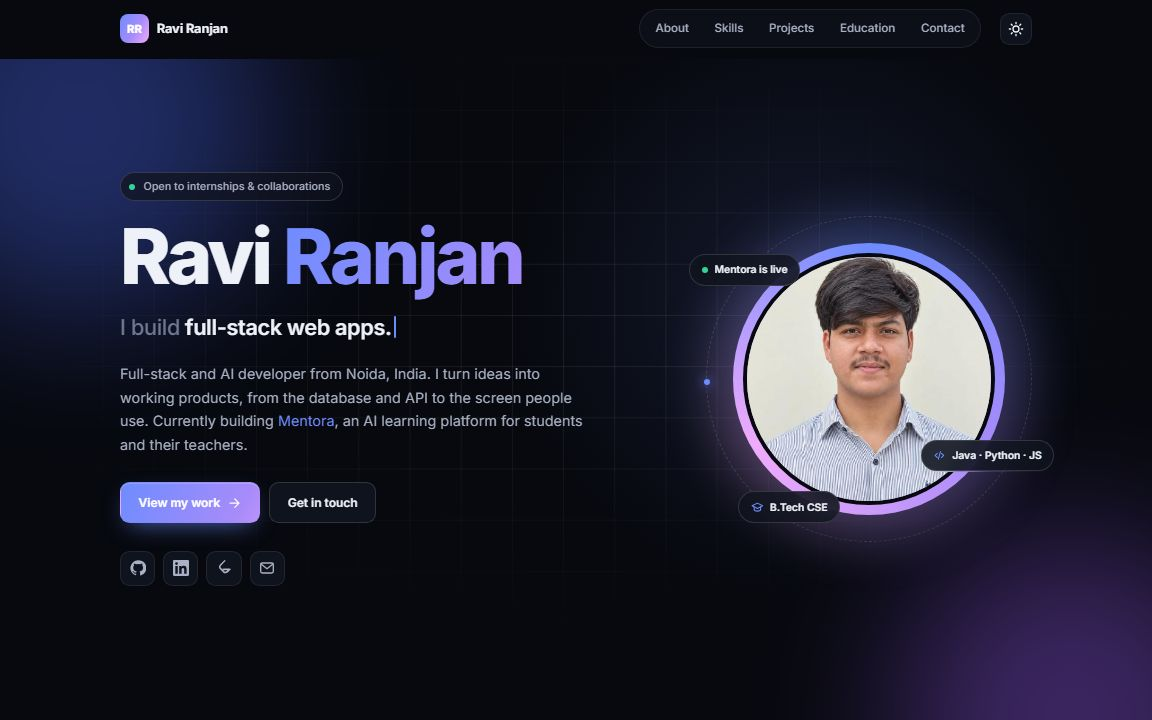
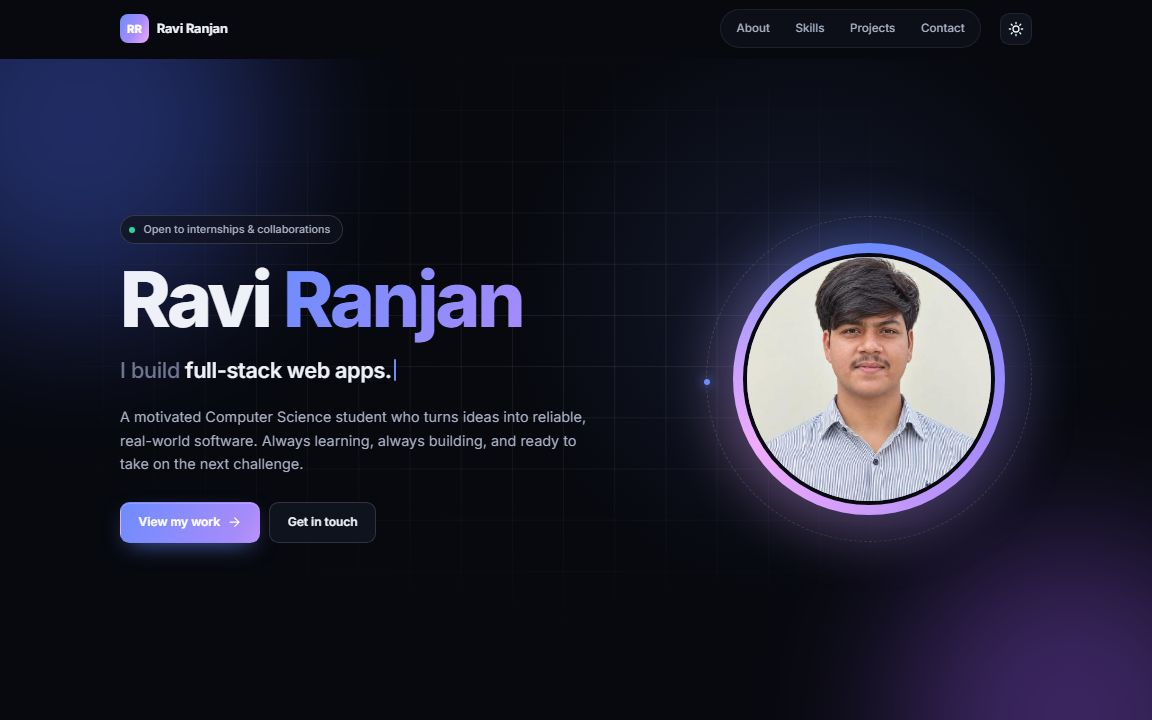
Hero: remove floating chips around the photo; refresh portfolio preview

diff --git a/css/style.css b/css/style.css
@@ -140,12 +140,6 @@ svg.fill { fill: currentColor; stroke: none; }
 @keyframes spin { to { transform: rotate(360deg); } }
 .orbit { position: absolute; inset: -34px; border-radius: 50%; border: 1px dashed var(--line-2); animation: spin 40s linear infinite reverse; }
 .orbit::before { content: ""; position: absolute; top: 50%; left: -4px; width: 8px; height: 8px; border-radius: 50%; background: var(--brand); box-shadow: 0 0 14px var(--brand); }
-.float-chip { position: absolute; display: inline-flex; align-items: center; gap: 8px; padding: 8px 14px; border-radius: 999px; background: color-mix(in srgb, var(--surface) 88%, transparent); backdrop-filter: blur(10px); -webkit-backdrop-filter: blur(10px); border: 1px solid var(--line-2); box-shadow: var(--shadow); font-size: 13px; font-weight: 600; color: var(--text); white-space: nowrap; transform: translateZ(60px); animation: bob 5s ease-in-out infinite; }
-.float-chip svg { width: 16px; height: 16px; color: var(--brand); }
-.chip-a { top: 4%; left: -16%; }
-.chip-b { bottom: 16%; right: -18%; animation-delay: -1.6s; }
-.chip-c { bottom: -3%; left: 2%; animation-delay: -3.2s; }
-@keyframes bob { 50% { translate: 0 -10px; } }
 .dot { width: 8px; height: 8px; border-radius: 50%; background: var(--ok); box-shadow: 0 0 0 0 color-mix(in srgb, var(--ok) 60%, transparent); animation: ping 1.8s infinite; flex: none; }
 @keyframes ping { 70% { box-shadow: 0 0 0 8px transparent; } 100% { box-shadow: 0 0 0 0 transparent; } }
 .scroll-hint { position: absolute; left: 50%; bottom: 28px; translate: -50% 0; display: grid; justify-items: center; gap: 8px; color: var(--muted); font: 500 11px/1 var(--mono); letter-spacing: .2em; text-transform: uppercase; }
@@ -361,7 +355,6 @@ svg.fill { fill: currentColor; stroke: none; }
   .project-media { order: -1; }
   .hero-visual { order: -1; margin: 30px 0 18px; }
   .hero-photo { width: min(270px, 64vw); }
-  .chip-a { left: -10%; } .chip-b { right: -12%; }
   .contact-card { padding: 36px; }
   .scroll-hint { display: none; }
   .f-cta { grid-template-columns: minmax(0, 1fr); gap: 28px; }
@@ -388,7 +381,6 @@ svg.fill { fill: currentColor; stroke: none; }
   .section { padding: 84px 0; }
   .project { padding: 18px; border-radius: 22px; }
   .project h3 { font-size: 28px; }
-  .float-chip { font-size: 12px; padding: 6px 11px; }
   .orbit { inset: -20px; }
   .contact-card { padding: 26px; border-radius: 24px; }
   .copy span { overflow-wrap: anywhere; }

diff --git a/index.html b/index.html
@@ -88,9 +88,6 @@
             <div class="orbit" aria-hidden="true"></div>
             <div class="ring" aria-hidden="true"></div>
             <img src="assets/ravi.jpg" width="320" height="320" alt="Portrait of Ravi Ranjan" />
-            <div class="float-chip chip-a"><span class="dot"></span> Mentora is live</div>
-            <div class="float-chip chip-b"><svg viewBox="0 0 24 24"><path d="m8 8-4 4 4 4M16 8l4 4-4 4M14 5l-4 14"/></svg> Java · Python · JS</div>
-            <div class="float-chip chip-c"><svg viewBox="0 0 24 24"><path d="M2 9l10-5 10 5-10 5z"/><path d="M6 11v5c0 1.5 2.7 3 6 3s6-1.5 6-3v-5"/></svg> B.Tech CSE</div>
           </div>
         </div>
       </div>
